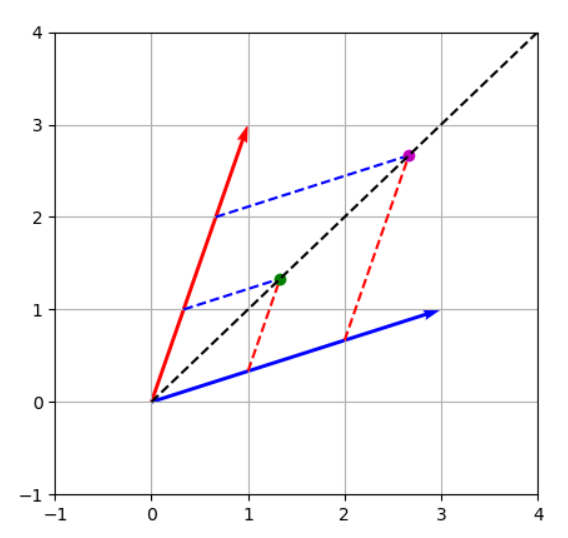
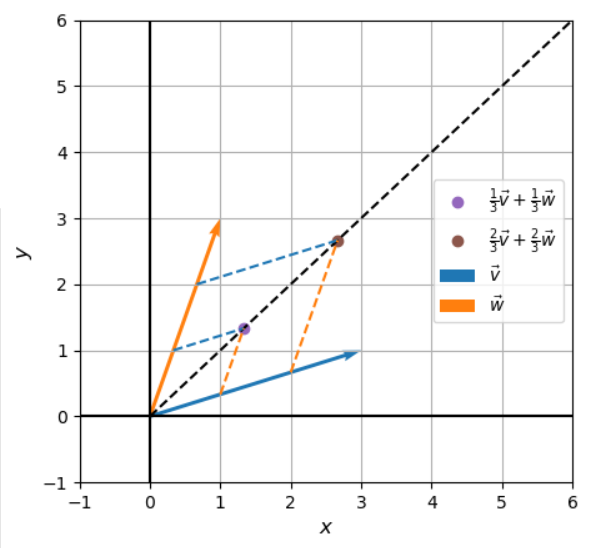
New additions.

diff --git a/Math/Linear Algebra/code_snippets/ch1_1-1_07.py b/Math/Linear Algebra/code_snippets/ch1_1-1_07.py
@@ -1,0 +1,48 @@
+'''
+An Introduction to Linear Algebra (4e) - Gilbert Strang
+
+Chapter 1
+Problem Set 1-1
+#7
+'''
+
+import matplotlib.pyplot as plt
+
+
+# c = 0, d = 0
+plt.quiver(0, 0, 0, 0, color='C0', angles='xy', scale_units='xy', scale=1, label=r'$c = 0,\ d = 0$')
+
+# c = 0, d = 1
+plt.quiver(0, 0, 0, 1, color='C1', angles='xy', scale_units='xy', scale=1, label=r'$c = 0,\ d = 1$')
+
+# c = 0, d = 2
+plt.quiver(0, 0, 0, 2, color='C2', angles='xy', scale_units='xy', scale=1, label=r'$c = 0,\ d = 2$')
+
+# c = 1, d = 0
+plt.quiver(0, 0, 2, 1, color='C3', angles='xy', scale_units='xy', scale=1, label=r'$c = 1,\ d = 0$')
+
+# c = 1, d = 1
+plt.quiver(0, 0, 2, 2, color='C4', angles='xy', scale_units='xy', scale=1, label=r'$c = 1,\ d = 1$')
+
+# c = 1, d = 2
+plt.quiver(0, 0, 2, 3, color='C5', angles='xy', scale_units='xy', scale=1, label=r'$c = 1,\ d = 2$')
+
+# c = 2, d = 0
+plt.quiver(0, 0, 4, 2, color='C6', angles='xy', scale_units='xy', scale=1, label=r'$c = 2,\ d = 0$')
+
+# c = 2, d = 1
+plt.quiver(0, 0, 4, 3, color='C7', angles='xy', scale_units='xy', scale=1, label=r'$c = 2,\ d = 1$')
+
+# c = 2, d = 2
+plt.quiver(0, 0, 4, 6, color='C8', angles='xy', scale_units='xy', scale=1, label=r'$c = 2,\ d = 2$')
+
+# Miscellaneous.
+plt.xlim(-1, 8)
+plt.ylim(-1, 8)
+plt.axhline(0, color='black')
+plt.axvline(0, color='black')
+plt.xlabel(r'$x$', fontsize='large')
+plt.ylabel(r'$y$', fontsize='large')
+plt.grid()
+plt.legend()
+plt.show()

diff --git a/Math/Linear Algebra/code_snippets/ch1_1-1_15.py b/Math/Linear Algebra/code_snippets/ch1_1-1_15.py
@@ -1,0 +1,51 @@
+'''
+An Introduction to Linear Algebra (4e) - Gilbert Strang
+
+Chapter 1
+Problem Set 1-1
+#15
+'''
+
+import matplotlib.pyplot as plt
+
+
+# v
+plt.quiver(0, 0, 3, 1, color='C0', angles='xy', scale_units='xy', scale=1, label=r'$\vec{v}$')
+
+# w
+plt.quiver(0, 0, 1, 3, color='C1', angles='xy', scale_units='xy', scale=1, label=r'$\vec{w}$')
+
+# (1/2)v + (1/2)w
+plt.plot(2, 2, 'C2o', label=r'$\frac{1}{2}\vec{v} + \frac{1}{2}\vec{w}$')
+
+# (1/4)v + (1/4)w
+plt.plot(1, 1, 'C3o', label=r'$\frac{1}{4}\vec{v} + \frac{1}{4}\vec{w}$')
+
+# (3/4)v + (1/4)w
+plt.plot(2.5, 1.5, 'C4o', label=r'$\frac{3}{4}\vec{v} + \frac{1}{4}\vec{w}$')
+
+# v + w
+plt.plot(4, 4, 'C5o', label=r'$\vec{v} + \vec{w}$')
+
+# Dotted lines.
+# v
+plt.plot([0.25, 2.5], [0.75, 1.5], 'C0--')
+plt.plot([0.5, 2], [1.5, 2], 'C0--')
+plt.plot([1, 4], [3, 4], 'C0--')
+
+# w
+plt.plot([0.75, 1], [0.25, 1], 'C1--')
+plt.plot([1.5, 2], [0.5, 2], 'C1--')
+plt.plot([2.25, 2.5], [0.75, 1.5], 'C1--')
+plt.plot([3, 4], [1, 4], 'C1--')
+
+# Miscellaneous.
+plt.xlim(-1, 7)
+plt.ylim(-1, 7)
+plt.axhline(0, color='black')
+plt.axvline(0, color='black')
+plt.xlabel(r'$x$', fontsize='large')
+plt.ylabel(r'$y$', fontsize='large')
+plt.grid()
+plt.legend()
+plt.show()

diff --git a/Math/Linear Algebra/code_snippets/ch1_1-1_16.py b/Math/Linear Algebra/code_snippets/ch1_1-1_16.py
@@ -1,0 +1,51 @@
+'''
+An Introduction to Linear Algebra (4e) - Gilbert Strang
+
+Chapter 1
+Problem Set 1-1
+#16
+'''
+
+import matplotlib.pyplot as plt
+
+
+# v
+plt.quiver(0, 0, 3, 1, color='C0', angles='xy', scale_units='xy', scale=1, label=r'$\vec{v}$')
+
+# w
+plt.quiver(0, 0, 1, 3, color='C1', angles='xy', scale_units='xy', scale=1, label=r'$\vec{w}$')
+
+# -v
+plt.quiver(0, 0, -3, -1, color='C2', angles='xy', scale_units='xy', scale=1, label=r'$\vec{-v}$')
+
+# 2w
+plt.quiver(0, 0, 2, 6, color='C3', angles='xy', scale_units='xy', scale=1, label=r'$\vec{2w}$')
+
+# (1/2)v + (1/2)w
+plt.plot(2, 2, 'C4o', label=r'$\vec{u}$')
+
+# -v + 2w
+plt.plot(-1, 5, 'C5o', label=r'$-\vec{v} + 2\vec{w}$')
+
+# black line
+plt.plot([-4, 8], [8, -4], 'k--')
+
+# Dotted lines.
+# v
+plt.plot([-1, 2], [5, 6], 'C0--')
+plt.plot([0.5, 2], [1.5, 2], 'C0--')
+
+# w
+plt.plot([-3, -1], [-1, 5], 'C1--')
+plt.plot([1.5, 2], [0.5, 2], 'C1--')
+
+# Miscellaneous.
+plt.xlim(-4, 9)
+plt.ylim(-4, 9)
+plt.axhline(0, color='black')
+plt.axvline(0, color='black')
+plt.xlabel(r'$x$', fontsize='large')
+plt.ylabel(r'$y$', fontsize='large')
+plt.grid()
+plt.legend()
+plt.show()

diff --git a/Math/Linear Algebra/code_snippets/ch1_1-1_08.py b/Math/Linear Algebra/code_snippets/ch1_1-1_08.py
@@ -1,0 +1,42 @@
+'''
+An Introduction to Linear Algebra (4e) - Gilbert Strang
+
+Chapter 1
+Problem Set 1-1
+#8
+'''
+
+import matplotlib.pyplot as plt
+
+
+# v
+plt.quiver(0, 0, 4, 2, color='C0', angles='xy', scale_units='xy', scale=1, label=r'$\vec{v}$')
+
+# w
+plt.quiver(0, 0, -1, 2, color='C1', angles='xy', scale_units='xy', scale=1, label=r'$\vec{w}$')
+
+# -w
+plt.quiver(0, 0, 1, -2, color='C2', angles='xy', scale_units='xy', scale=1, label=r'$\vec{-w}$')
+
+# v + w
+plt.quiver(0, 0, 3, 4, color='C3', angles='xy', scale_units='xy', scale=1, label=r'$\vec{v} + \vec{w}$')
+
+# v - w
+plt.quiver(0, 0, 5, 0, color='C4', angles='xy', scale_units='xy', scale=1, label=r'$\vec{v} - \vec{w}$')
+
+# Dotted lines.
+plt.plot([-1, 3], [2, 4], 'C0--')
+plt.plot([3, 4], [4, 2], 'C1--')
+plt.plot([1, 5], [-2, 0], 'C0--')
+plt.plot([4, 5], [2, 0], 'C2--')
+
+# Miscellaneous.
+plt.xlim(-4, 7)
+plt.ylim(-4, 7)
+plt.axhline(0, color='black')
+plt.axvline(0, color='black')
+plt.xlabel(r'$x$', fontsize='large')
+plt.ylabel(r'$y$', fontsize='large')
+plt.grid()
+plt.legend()
+plt.show()

diff --git a/Math/Linear Algebra/code_snippets/ch1_1-1_17.py b/Math/Linear Algebra/code_snippets/ch1_1-1_17.py
@@ -1,0 +1,45 @@
+'''
+An Introduction to Linear Algebra (4e) - Gilbert Strang
+
+Chapter 1
+Problem Set 1-1
+#17
+'''
+
+import matplotlib.pyplot as plt
+
+
+# v
+plt.quiver(0, 0, 3, 1, color='C0', angles='xy', scale_units='xy', scale=1, label=r'$\vec{v}$')
+
+# w
+plt.quiver(0, 0, 1, 3, color='C1', angles='xy', scale_units='xy', scale=1, label=r'$\vec{w}$')
+
+# (1/3)v + (1/3)w
+plt.plot(1.333, 1.333, 'C4o', label=r'$\frac{1}{3}\vec{v} + \frac{1}{3}\vec{w}$')
+
+# (2/3)v + (2/3)w
+plt.plot(2.666, 2.666, 'C5o', label=r'$\frac{2}{3}\vec{v} + \frac{2}{3}\vec{w}$')
+
+# black line
+plt.plot([0, 6], [0, 6], 'k--')
+
+# Dotted lines.
+# v
+plt.plot([0.333, 1.333], [1, 1.333], 'C0--')
+plt.plot([0.666, 2.666], [2, 2.666], 'C0--')
+
+# w
+plt.plot([1, 1.333], [0.333, 1.333], 'C1--')
+plt.plot([2, 2.666], [0.666, 2.666], 'C1--')
+
+# Miscellaneous.
+plt.xlim(-1, 6)
+plt.ylim(-1, 6)
+plt.axhline(0, color='black')
+plt.axvline(0, color='black')
+plt.xlabel(r'$x$', fontsize='large')
+plt.ylabel(r'$y$', fontsize='large')
+plt.grid()
+plt.legend()
+plt.show()

diff --git a/Math/Linear Algebra/code_snippets/ch1_1-1_18.py b/Math/Linear Algebra/code_snippets/ch1_1-1_18.py
@@ -1,0 +1,31 @@
+'''
+An Introduction to Linear Algebra (4e) - Gilbert Strang
+
+Chapter 1
+Problem Set 1-1
+#18
+'''
+
+import matplotlib.pyplot as plt
+
+
+# Fill in area.
+plt.fill_between([0, 1, 4], [0, 1, 4], [0, 3, 4], color='C2', label=r'$c\vec{v} + d\vec{w}$')
+plt.fill_between([0, 3, 4], [0, 3, 4], [0, 1, 4], color='C2')
+
+# v
+plt.quiver(0, 0, 3, 1, color='C0', angles='xy', scale_units='xy', scale=1, label=r'$\vec{v}$')
+
+# w
+plt.quiver(0, 0, 1, 3, color='C1', angles='xy', scale_units='xy', scale=1, label=r'$\vec{w}$')
+
+# Miscellaneous.
+plt.xlim(-1, 6)
+plt.ylim(-1, 6)
+plt.axhline(0, color='black')
+plt.axvline(0, color='black')
+plt.xlabel(r'$x$', fontsize='large')
+plt.ylabel(r'$y$', fontsize='large')
+plt.grid()
+plt.legend()
+plt.show()

diff --git a/Math/Linear Algebra/code_snippets/ch1_1-1_03.py b/Math/Linear Algebra/code_snippets/ch1_1-1_03.py
@@ -1,0 +1,27 @@
+'''
+An Introduction to Linear Algebra (4e) - Gilbert Strang
+
+Chapter 1
+Problem Set 1-1
+#3
+'''
+
+import matplotlib.pyplot as plt
+
+
+# v
+plt.quiver(0, 0, 3, 3, color='C0', angles='xy', scale_units='xy', scale=1, label=r'$\vec{v}$')
+
+# w
+plt.quiver(0, 0, 2, -2, color='C1', angles='xy', scale_units='xy', scale=1, label=r'$\vec{w}$')
+
+# Miscellaneous.
+plt.xlim(-3, 5)
+plt.ylim(-3, 5)
+plt.axhline(0, color='black')
+plt.axvline(0, color='black')
+plt.xlabel(r'$x$', fontsize='large')
+plt.ylabel(r'$y$', fontsize='large')
+plt.grid()
+plt.legend()
+plt.show()

diff --git a/Math/Linear Algebra/code_snippets/ch1_1-1_02.py b/Math/Linear Algebra/code_snippets/ch1_1-1_02.py
@@ -33,6 +33,10 @@ plt.plot([4, 6], [1, -1], 'C2--')
 # Miscellaneous.
 plt.xlim(-4, 7)
 plt.ylim(-4, 7)
+plt.axhline(0, color='black')
+plt.axvline(0, color='black')
+plt.xlabel(r'$x$', fontsize='large')
+plt.ylabel(r'$y$', fontsize='large')
 plt.grid()
 plt.legend()
 plt.show()
